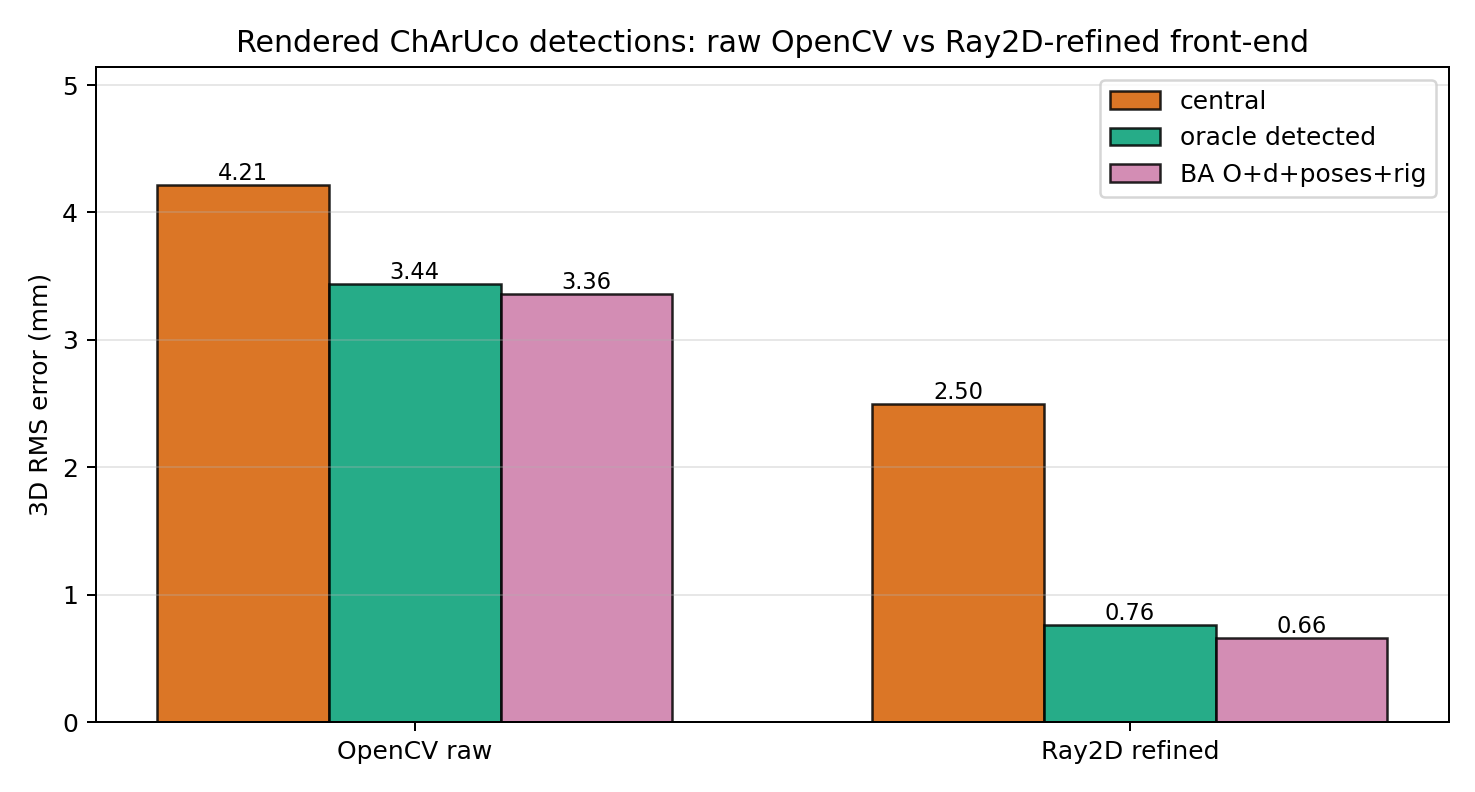
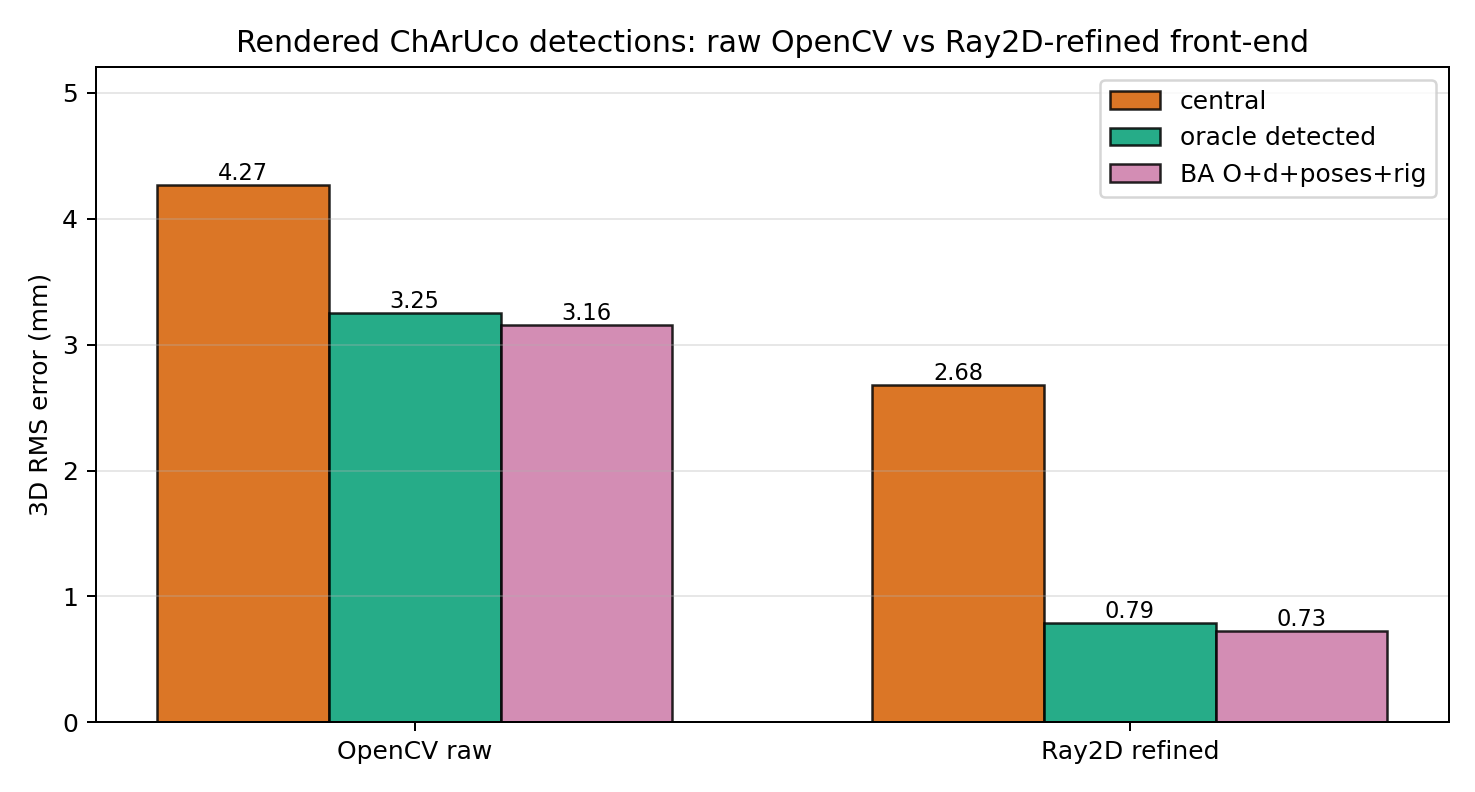
docs(synthetic): update rendered-image benchmark results for 14-frame edge-coverage dataset
Figures and numerical tables regenerated after adding 4 axis-aligned edge poses
to make_default_parallel_plate_charuco_dataset (10 → 14 frames). The rendered
benchmark now reports per-frame corner sets (min 52, total 1139) rather than a
global intersection count. Updated PARALLEL_PLATE_ORIGIN_FIELD.md accordingly.

diff --git a/docs/PARALLEL_PLATE_ORIGIN_FIELD.md b/docs/PARALLEL_PLATE_ORIGIN_FIELD.md
@@ -849,7 +849,9 @@ optimizes `O(u,v)`, `d(u,v)`, board poses, and the stereo rig from the detected
 2D points.
 
 The rendered benchmark now follows a more realistic acquisition rule than the
-first smoke test: it uses 10 stereo poses and a larger `12 x 9` ChArUco board.
+first smoke test: it uses 14 stereo poses (including 4 axis-aligned edge poses
+where roughly a quarter of the board extends outside the image) and a larger
+`12 x 9` ChArUco board.
 This is consistent with common calibration guidance:
 [MathWorks recommends](https://www.mathworks.com/help/vision/ug/prepare-camera-and-capture-images-for-camera-calibration.html)
 at least `10-20` images and a target covering at least about 20% of the image,
@@ -872,22 +874,28 @@ Two 2D front-ends are compared:
 - **Ray2D refined**: the detected ArUco marker corners are used to run the
   public `rayfield_tps_robust` planar refinement before the same non-central BA.
 
-| Front-end | Frames | Corners/frame | Total points |
+The 4 edge poses cover regions near each image border where a quarter of the
+board hangs outside the frame. ChArUco inner corners that lack an adjacent
+visible ArUco marker cannot be identified, so each edge frame contributes its
+own detected-corner subset. The per-frame corner counts therefore vary, and the
+table reports the minimum across all frames and the total pooled count.
+
+| Front-end | Frames | Min corners/frame | Total points |
 | --- | ---: | ---: | ---: |
-| OpenCV raw | 10 | 59 | 590 |
-| Ray2D refined | 10 | 59 | 590 |
+| OpenCV raw | 14 | 52 | 1139 |
+| Ray2D refined | 14 | 52 | 1139 |
 
 | Front-end | Central RMS (mm) | Oracle RMS (mm) | BA RMS (mm) | Gain |
 | --- | ---: | ---: | ---: | ---: |
-| OpenCV raw | 4.213 | 3.440 | 3.360 | 1.25x |
-| Ray2D refined | 2.498 | 0.763 | 0.658 | 3.80x |
+| OpenCV raw | 4.266 | 3.250 | 3.159 | 1.35x |
+| Ray2D refined | 2.677 | 0.785 | 0.727 | 3.68x |
 
 The result changes the diagnosis. With raw OpenCV ChArUco corners, the oracle
-detected floor is already high (`3.44 mm`) and the complete BA only reaches
-`3.36 mm`: the limiting factor is the raw detector/rasterization front-end. With
+detected floor is already high (`3.25 mm`) and the complete BA only reaches
+`3.16 mm`: the limiting factor is the raw detector/rasterization front-end. With
 the Ray2D planar refinement, the same rendered images and the same BA pipeline
-drop to `0.658 mm` RMS, slightly below the oracle detected raw-pixel floor for
-the refined coordinates (`0.763 mm`). This is consistent with the geometric
+drop to `0.727 mm` RMS, slightly below the oracle detected raw-pixel floor for
+the refined coordinates (`0.785 mm`). This is consistent with the geometric
 noise-floor estimate above and confirms that the non-central BA was not the main
 bottleneck in the raw rendered test.
 
